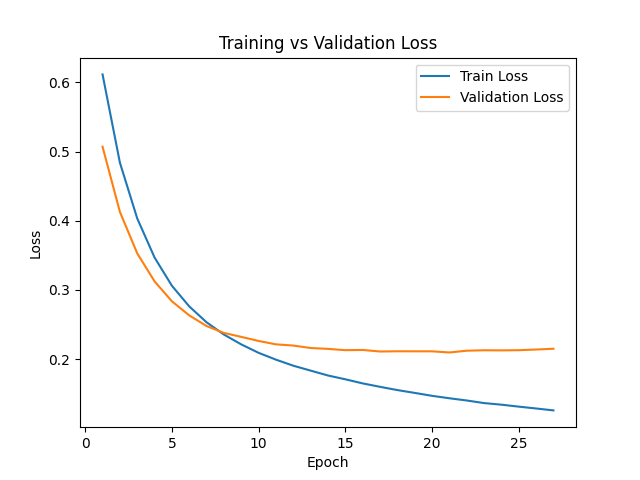
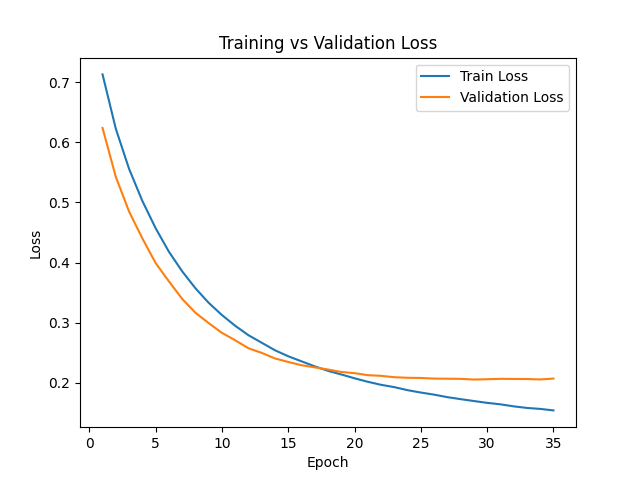
basic focal loss

diff --git a/trainer.py b/trainer.py
@@ -1,7 +1,30 @@
 import torch
 
 
-def train_epoch(model, dataloader, optimizer, criterion, device):
+def focal_binary_cross_entropy(logits, targets, gamma=2.0, alpha=1.0):
+    """
+    Focal Loss for multi-label classification.
+    logits: (B, 4, 3)
+    targets: (B, 4, 3)
+    """
+    p = torch.sigmoid(logits)
+    p_t = p * targets + (1 - p) * (
+        1 - targets
+    )  # probability of the correct class
+
+    bce_loss = torch.nn.functional.binary_cross_entropy_with_logits(
+        logits, targets, reduction="none"
+    )
+
+    # The Focal factor (1 - pt)^gamma
+    focal_weight = (1 - p_t) ** gamma
+
+    loss = alpha * focal_weight * bce_loss
+
+    return loss.mean()
+
+
+def train_epoch(model, dataloader, optimizer, device):
     model.train()
 
     total_loss = 0
@@ -14,7 +37,7 @@ def train_epoch(model, dataloader, optimizer, criterion, device):
             input_ids=batch["input_ids"],
             attention_mask=batch["attention_mask"],
         )
-        loss = criterion(outputs, batch["labels"])
+        loss = focal_binary_cross_entropy(outputs, batch["labels"])
 
         optimizer.zero_grad()
         loss.backward()
@@ -28,7 +51,7 @@ def train_epoch(model, dataloader, optimizer, criterion, device):
     return total_loss / len(dataloader)
 
 
-def eval_epoch(model, dataloader, criterion, device):
+def eval_epoch(model, dataloader, device):
 
     model.eval()
 
@@ -44,7 +67,7 @@ def eval_epoch(model, dataloader, criterion, device):
                 input_ids=batch["input_ids"],
                 attention_mask=batch["attention_mask"],
             )
-            loss = criterion(outputs, batch["labels"])
+            loss = focal_binary_cross_entropy(outputs, batch["labels"])
 
             total_loss += loss.item()
 

diff --git a/train.py b/train.py
@@ -69,11 +69,9 @@ def main(args):
 
         print(f"\nEpoch {epoch+1}")
 
-        train_loss = train_epoch(
-            model, train_loader, optimizer, criterion, device
-        )
+        train_loss = train_epoch(model, train_loader, optimizer, device)
 
-        val_loss = eval_epoch(model, val_loader, criterion, device)
+        val_loss = eval_epoch(model, val_loader, device)
 
         print("Train loss:", train_loss)
         print("Val loss:", val_loss)

diff --git a/config_test.py b/config_test.py
@@ -1,2 +1,2 @@
-TEST_MODEL_NAME = "absa-training-934660f_vnsf-44.pth"
-history_path = "absa-training-934660f_loss_history.json"
+TEST_MODEL_NAME = "absa-training-5acd578_vnsf-44.pth"
+history_path = "absa-training-5acd578_loss_history.json"
